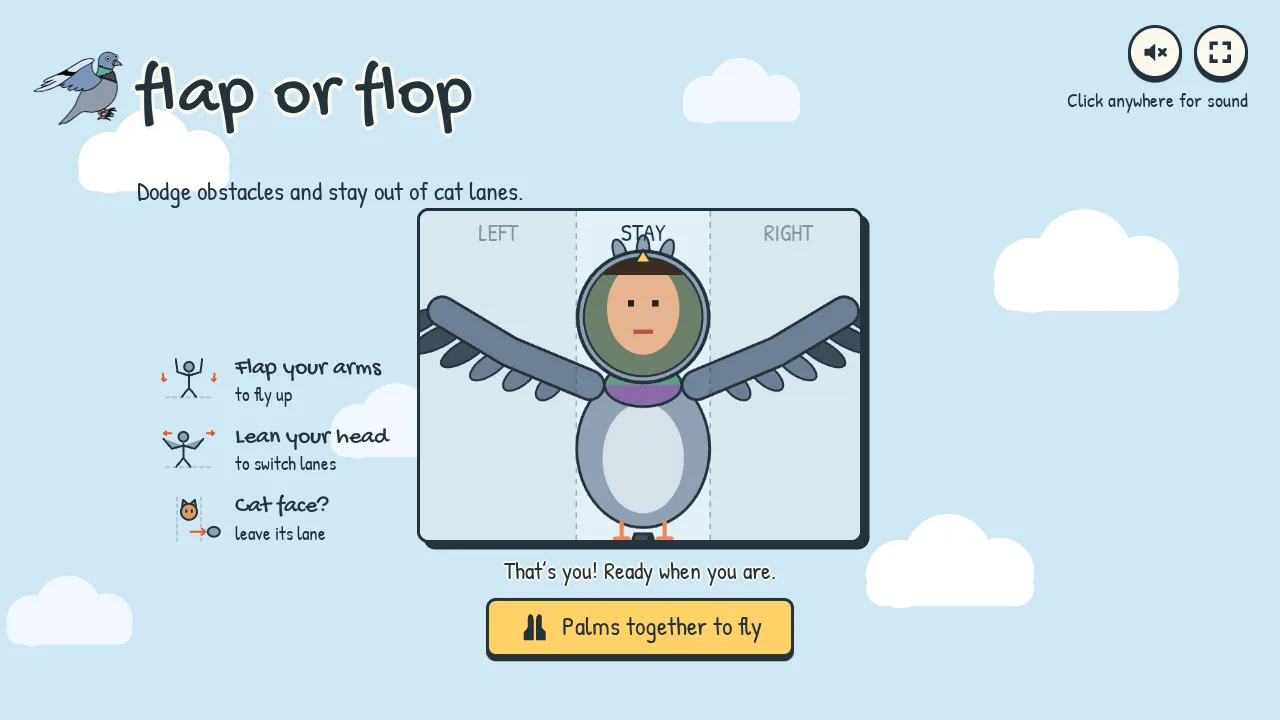
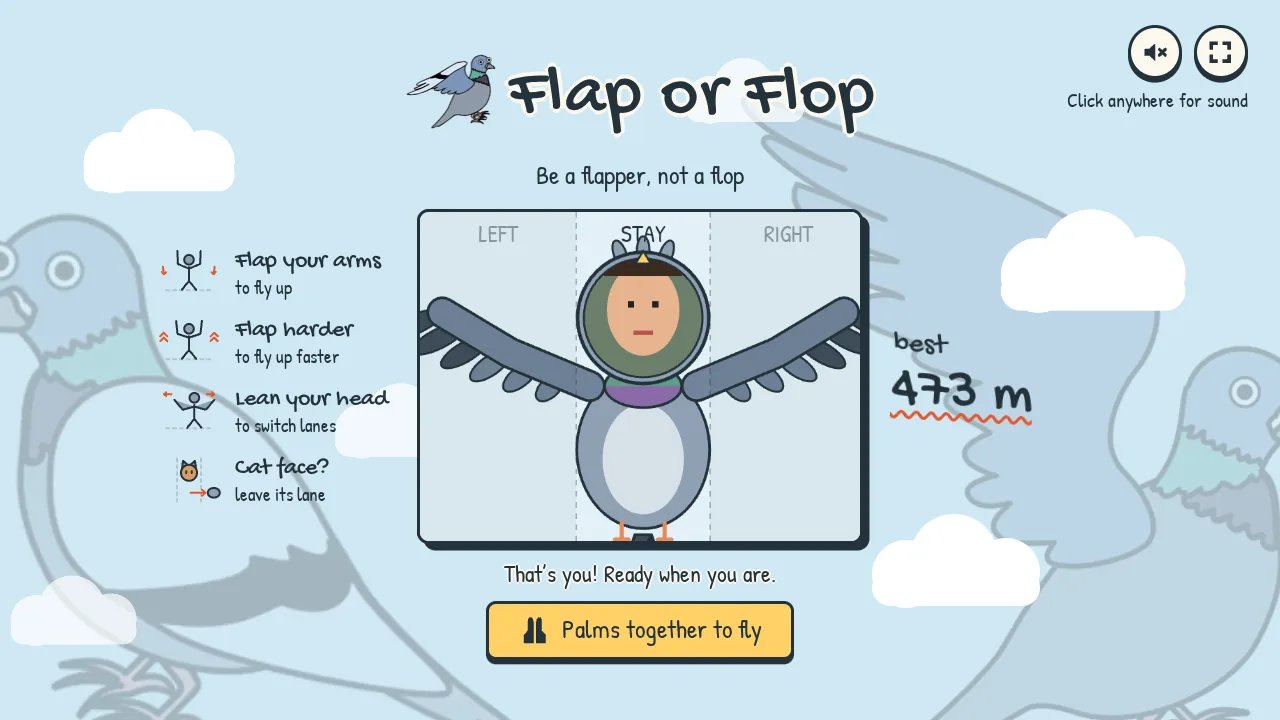
feat: updated headings and alignment for title page

diff --git a/src/ui/icons.ts b/src/ui/icons.ts
@@ -18,10 +18,19 @@ export function icon(name: IconName, className = ""): string {
   return `<svg class="icon icon-${name} ${className}" viewBox="0 0 24 24" aria-hidden="true">${PATHS[name]}</svg>`;
 }
 
+const FIGURE_ARROWS = {
+  flap: '<path d="m25 44 2 19m-5-6 5 6 6-5m121-14-2 19m-6-5 6 5 5-6" class="figure-arrow"/>',
+  // Two up-chevrons on each side: faster strokes, faster climb.
+  fast: '<path d="m18 46 9-9 9 9m-18 12 9-9 9 9m108-12 9-9 9 9m-18 12 9-9 9 9" class="figure-arrow"/>',
+  head: '<path d="M46 18H27m6-5-6 5 6 5m101-5h19m-6-5 6 5-6 5" class="figure-arrow"/>',
+};
+
 /** The same little figure demonstrates the actual movements before a first run. */
-export function movementFigure(kind: "flap" | "head" | "dodge"): string {
+export function movementFigure(
+  kind: "flap" | "fast" | "head" | "dodge",
+): string {
   if (kind === "dodge") {
     return `<svg viewBox="0 0 180 120" class="movement-figure" aria-hidden="true"><path d="M60 6v108M120 6v108" class="figure-lanes"/><path d="M72 36 75 12l13 12M108 36l-3-24-13 12" class="figure-cat"/><circle cx="90" cy="42" r="20" class="figure-cat"/><path d="M83 38v5m14-5v5" class="figure-limbs"/><path d="M94 92h36" class="figure-arrow"/><path d="m122 84 9 8-9 8" class="figure-arrow"/><ellipse cx="152" cy="92" rx="15" ry="12" class="figure-body"/></svg>`;
   }
-  return `<svg viewBox="0 0 180 120" class="movement-figure figure-${kind}" aria-hidden="true"><path d="M33 103h114" class="figure-ground"/><g class="figure-person"><circle cx="90" cy="27" r="12" class="figure-head"/><path d="M90 45v35m0 0-18 22m18-22 18 22" class="figure-limbs"/><path d="m90 49-29 8-21-25" class="figure-limbs figure-arm-left"/><path d="m90 49 29 8 21-25" class="figure-limbs figure-arm-right"/></g>${kind === "flap" ? '<path d="m25 44 2 19m-5-6 5 6 6-5m121-14-2 19m-6-5 6 5 5-6" class="figure-arrow"/>' : '<path d="M46 18H27m6-5-6 5 6 5m101-5h19m-6-5 6 5-6 5" class="figure-arrow"/>'}</svg>`;
+  return `<svg viewBox="0 0 180 120" class="movement-figure figure-${kind}" aria-hidden="true"><path d="M33 103h114" class="figure-ground"/><g class="figure-person"><circle cx="90" cy="27" r="12" class="figure-head"/><path d="M90 45v35m0 0-18 22m18-22 18 22" class="figure-limbs"/><path d="m90 49-29 8-21-25" class="figure-limbs figure-arm-left"/><path d="m90 49 29 8 21-25" class="figure-limbs figure-arm-right"/></g>${FIGURE_ARROWS[kind]}</svg>`;
 }

diff --git a/src/style.css b/src/style.css
@@ -220,18 +220,31 @@ h2:focus {
 .title-screen {
   display: grid;
   grid-template-columns: 1fr auto 1fr;
-  grid-template-rows: auto 1fr;
+  grid-template-rows: auto auto auto;
+  align-content: start;
   gap: 0 4cqh;
   padding: 3.5cqh 4.5cqh 4cqh;
 }
+/* The brand sits centred above the mirror; the buttons keep the top-right corner. */
 .title-bar {
   grid-column: 1 / -1;
+  position: relative;
   display: flex;
-  align-items: flex-start;
-  justify-content: space-between;
+  justify-content: center;
+  margin-bottom: 2.4cqh;
+}
+.brand {
+  display: flex;
+  flex-direction: column;
+  align-items: center;
+}
+.title-bar .corner {
+  position: absolute;
+  top: 0;
+  right: 0;
 }
 .tagline {
-  margin: 0.6cqh 0 0 14.5cqh;
+  margin: -1.6cqh 0 0;
   font-size: 3.6cqh;
 }
 .corner-buttons {
@@ -277,10 +290,15 @@ h2:focus {
 .mirror {
   grid-column: 2;
   grid-row: 2;
+}
+.mirror-actions {
+  grid-column: 2;
+  grid-row: 3;
   display: flex;
   flex-direction: column;
   align-items: center;
   gap: 1.6cqh;
+  margin-top: 1.8cqh;
 }
 .mirror .camera-slot {
   width: 62cqh;
@@ -304,6 +322,7 @@ h2:focus {
   color: var(--muted);
 }
 
+/* Rules and best score sit level with the middle of the mirror. */
 .tips {
   grid-column: 1;
   grid-row: 2;
@@ -380,13 +399,19 @@ h2:focus {
 .figure-arrow {
   stroke: var(--red);
 }
-.figure-flap .figure-arm-left {
+.figure-flap .figure-arm-left,
+.figure-fast .figure-arm-left {
   transform-origin: 90px 49px;
   animation: flap-left 0.9s ease-in-out infinite;
 }
-.figure-flap .figure-arm-right {
+.figure-flap .figure-arm-right,
+.figure-fast .figure-arm-right {
   transform-origin: 90px 49px;
   animation: flap-right 0.9s ease-in-out infinite;
+}
+.figure-fast .figure-arm-left,
+.figure-fast .figure-arm-right {
+  animation-duration: 0.35s;
 }
 .figure-head .figure-person {
   animation: lean 2.4s ease-in-out infinite;

diff --git a/src/ui/views.ts b/src/ui/views.ts
@@ -17,7 +17,7 @@ function soundButton(): string {
 }
 
 function tip(
-  figure: "flap" | "head" | "dodge",
+  figure: Parameters<typeof movementFigure>[0],
   title: string,
   body: string,
 ): string {
@@ -28,8 +28,8 @@ export function menuView(best: number): string {
   return `<section class="screen title-screen" aria-labelledby="title-heading">
     <header class="title-bar">
       <div class="brand">
-        <h1 id="title-heading" class="logo" tabindex="-1"><img src="${ART}pigeon-flight-3.webp" alt="" />flap or flop</h1>
-        <p class="tagline">Dodge obstacles and stay out of cat lanes.</p>
+        <h1 id="title-heading" class="logo" tabindex="-1"><img src="${ART}pigeon-flight-3.webp" alt="" />Flap or Flop</h1>
+        <p class="tagline">Be a flapper, not a flop</p>
       </div>
       <div class="corner">
         <div class="corner-buttons">${soundButton()}<button class="round-button" data-action="fullscreen" aria-label="Enter fullscreen">${icon("expand")}</button></div>
@@ -38,12 +38,15 @@ export function menuView(best: number): string {
     </header>
     <div class="mirror">
       ${cameraSlot("large")}
+    </div>
+    <div class="mirror-actions">
       <p class="mirror-status" data-menu-status role="status">Looking for your camera…</p>
       <button class="button button-go" data-action="advance" disabled>${icon("palms")}<span>Palms together to fly</span></button>
       <p class="asset-status" data-asset-status role="status" hidden></p>
     </div>
     <ul class="tips" aria-label="How to play">
       ${tip("flap", "Flap your arms", "to fly up")}
+      ${tip("fast", "Flap harder", "to fly up faster")}
       ${tip("head", "Lean your head", "to switch lanes")}
       ${tip("dodge", "Cat face?", "leave its lane")}
     </ul>

diff --git a/src/game/scenes/BootScene.ts b/src/game/scenes/BootScene.ts
@@ -7,7 +7,7 @@ import { MenuConfirm } from "../menuConfirm";
 import { loadGameArt } from "../rendering/assets";
 import { ensureCatArt } from "../rendering/enemies";
 import { ensureHeavenArt } from "../rendering/heavenArt";
-import { DriftingClouds, SKY } from "../rendering/sky";
+import { DriftingClouds, SKY, addBackdropPigeons } from "../rendering/sky";
 import { bestScore } from "../storage";
 
 /** Title screen: clouds drift behind the player's bird until they put their palms together. */
@@ -38,6 +38,7 @@ export class BootScene extends Phaser.Scene {
     this.inputSource = inputManager.getSource();
     this.confirm = new MenuConfirm(inputManager.getState());
     this.cameras.main.setBackgroundColor(SKY);
+    addBackdropPigeons(this);
     this.clouds = new DriftingClouds(this);
     if (!this.artFailed) {
       ensureHeavenArt(this);

diff --git a/src/game/rendering/sky.ts b/src/game/rendering/sky.ts
@@ -28,6 +28,27 @@ export function ensureCloudArt(scene: Phaser.Scene): string {
   return CLOUD_KEY;
 }
 
+/** Two big, faint pigeons behind the clouds give the title sky some character. */
+export function addBackdropPigeons(scene: Phaser.Scene): void {
+  if (scene.textures.exists("pigeon-rest")) {
+    scene.add
+      .image(-40, 760, "pigeon-rest")
+      .setOrigin(0, 1)
+      .setDisplaySize(560, 547)
+      .setFlipX(true)
+      .setAlpha(0.22)
+      .setDepth(-18);
+  }
+  if (scene.textures.exists("pigeon-hero")) {
+    scene.add
+      .image(1330, 790, "pigeon-hero")
+      .setOrigin(1, 1)
+      .setDisplaySize(590, 699)
+      .setAlpha(0.22)
+      .setDepth(-18);
+  }
+}
+
 interface Cloud {
   image: Phaser.GameObjects.Image;
   speed: number;

diff --git a/index.html b/index.html
@@ -6,7 +6,7 @@
     <meta name="theme-color" content="#24323a" />
     <link rel="preload" href="/fonts/gochi-hand.woff2" as="font" type="font/woff2" crossorigin />
     <link rel="preload" href="/fonts/patrick-hand.woff2" as="font" type="font/woff2" crossorigin />
-    <meta name="description" content="Flap or Flop: flap your arms in front of your webcam to fly. Dodge obstacles and stay out of cat lanes." />
+    <meta name="description" content="Flap or Flop: be a flapper, not a flop. Flap your arms in front of your webcam to fly." />
     <title>Flap or Flop</title>
     <link rel="icon" type="image/webp" href="/assets/art/pigeon-flight-3.webp" />
   </head>

diff --git a/src/game/rendering/assets.ts b/src/game/rendering/assets.ts
@@ -9,6 +9,8 @@ export function loadGameArt(scene: Phaser.Scene): void {
   const keys = new Set([
     "map-kitchen",
     "map-dessert",
+    "pigeon-hero",
+    "pigeon-rest",
     ...[1, 2, 3, 4, 5].map((frame) => `pigeon-flight-${frame}`),
     ...Object.entries(HAZARD_ART)
       .filter(([level]) => !GENERATED_HAZARD_LEVELS.has(level))

diff --git a/docs/ui.md b/docs/ui.md
@@ -1,6 +1,6 @@
 # UI and artwork
 
-Flap or Flop keeps to a few flat colours, thick ink outlines, and handwritten type. The layout follows simple arcade games such as Doodle Jump and Temple Run: one title screen, a score in the corner, a pause button, and nothing else on screen during play. The tagline is "Dodge obstacles and stay out of cat lanes."
+Flap or Flop keeps to a few flat colours, thick ink outlines, and handwritten type. The layout follows simple arcade games such as Doodle Jump and Temple Run: one title screen, a score in the corner, a pause button, and nothing else on screen during play. The tagline is "Be a flapper, not a flop."
 
 We avoid the usual signs of generated UI: no gradients, glass, grain, or blur; no emoji, stars, badges, or icon-card rows; no stock icon set (the few icons are drawn for this game in `src/ui/icons.ts`); no fade-on-hover or fade-in effects (buttons press down; the world banner slides); and no em dashes in the copy.
 
@@ -14,7 +14,7 @@ The UI layer has the same 16:9 box as the Phaser canvas and is sized in containe
 
 | Screen | Contents |
 | --- | --- |
-| Title | Logo and tagline on a flat sky with drifting clouds, the camera "mirror" in the centre, three doodled tips, best score, sound and fullscreen buttons |
+| Title | Logo and tagline centred above the mirror on a flat sky with drifting clouds and two faint pigeons, the camera "mirror" in the centre, four doodled rules (left) and the best score (right), both level with the middle of the mirror, sound and fullscreen buttons |
 | Flight | Score and best (top left), sound and pause (top right), the player's bird (bottom right), world banner on each map change, a red pill only while a cat threatens |
 | Lost tracking | A card with the camera mirror and a Recalibrate button |
 | Pause | "paused", palms-together hint, Resume, Quit |

diff --git a/README.md b/README.md
@@ -1,6 +1,6 @@
 # Flap or Flop
 
-Dodge obstacles and stay out of cat lanes. Flap your arms in front of your webcam to fly a pigeon through a kitchen, a desert and bird heaven. Built for StormHacks 2026.
+Be a flapper, not a flop. Flap your arms in front of your webcam to fly a pigeon through a kitchen, a desert and bird heaven. Built for StormHacks 2026.
 
 ## Run locally
 
